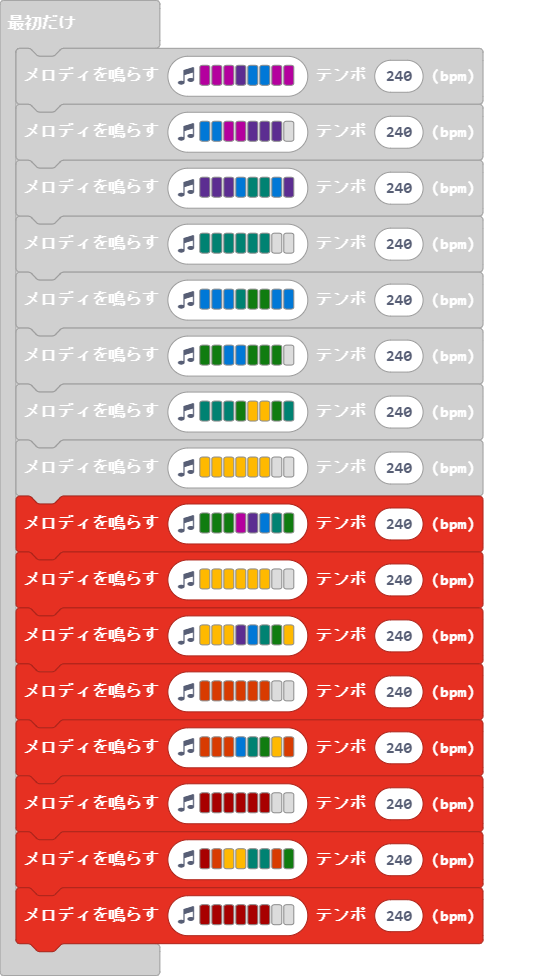
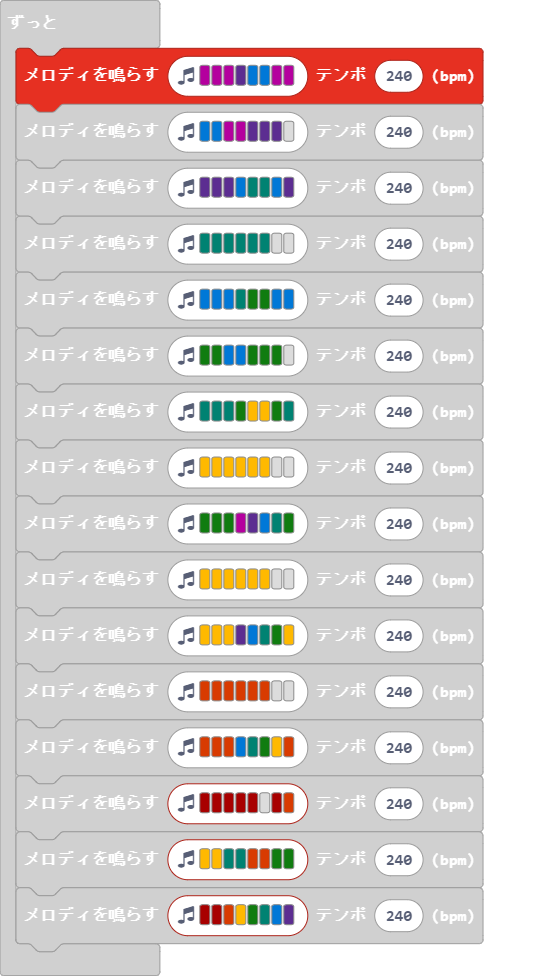
更新 main.blocks, main.ts

diff --git a/main.ts b/main.ts
@@ -1,19 +1,18 @@
-music.playMelody("C C C D E E C C ", 240)
-music.playMelody("E E C C D D D - ", 240)
-music.playMelody("D D D E F F E D ", 240)
-music.playMelody("F F F F F F - - ", 240)
-music.playMelody("E E E F G G E E ", 240)
-music.playMelody("G G E E G G G - ", 240)
-music.playMelody("F F F G A A G F ", 240)
-music.playMelody("A A A A A A - - ", 240)
-music.playMelody("G G G C D E F G ", 240)
-music.playMelody("A A A A A A - - ", 240)
-music.playMelody("A A A D E F G A ", 240)
-music.playMelody("B B B B B B - - ", 240)
-music.playMelody("B B B E F G A B ", 240)
-music.playMelody("C5 C5 C5 C5 C5 C5 - - ", 240)
-music.playMelody("C5 B A A F F B G ", 240)
-music.playMelody("C5 C5 C5 C5 C5 C5 - - ", 240)
 basic.forever(function () {
-	
+    music.playMelody("C C C D E E C C ", 240)
+    music.playMelody("E E C C D D D - ", 240)
+    music.playMelody("D D D E F F E D ", 240)
+    music.playMelody("F F F F F F - - ", 240)
+    music.playMelody("E E E F G G E E ", 240)
+    music.playMelody("G G E E G G G - ", 240)
+    music.playMelody("F F F G A A G F ", 240)
+    music.playMelody("A A A A A A - - ", 240)
+    music.playMelody("G G G C D E F G ", 240)
+    music.playMelody("A A A A A A - - ", 240)
+    music.playMelody("A A A D E F G A ", 240)
+    music.playMelody("B B B B B B - - ", 240)
+    music.playMelody("B B B E F G A B ", 240)
+    music.playMelody("C5 C5 C5 C5 C5 - C5 B ", 240)
+    music.playMelody("A A F F B B G G ", 240)
+    music.playMelody("C5 C5 B A G F E D ", 240)
 })
